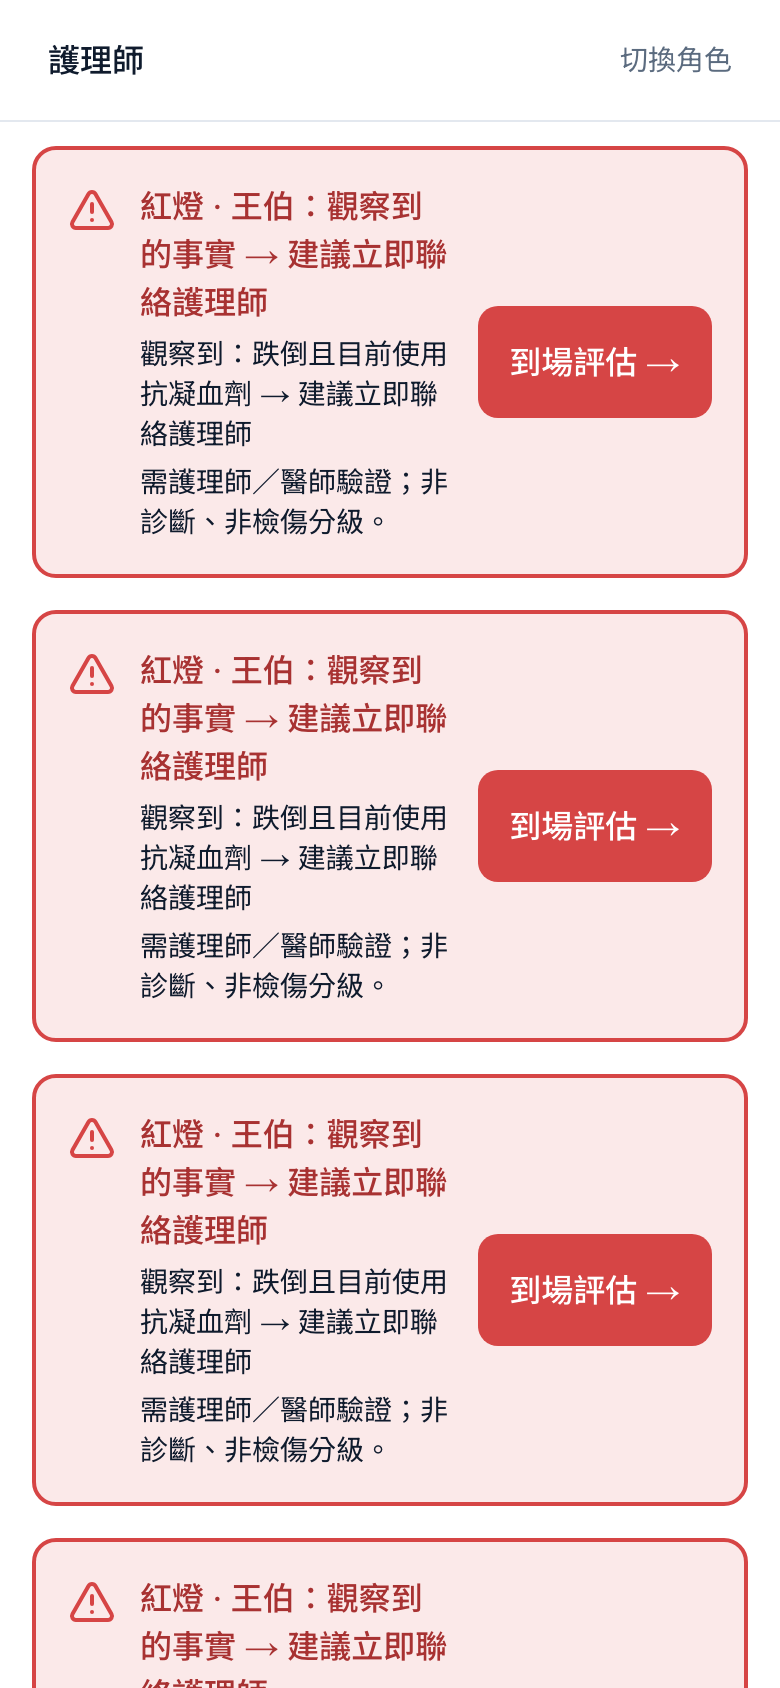
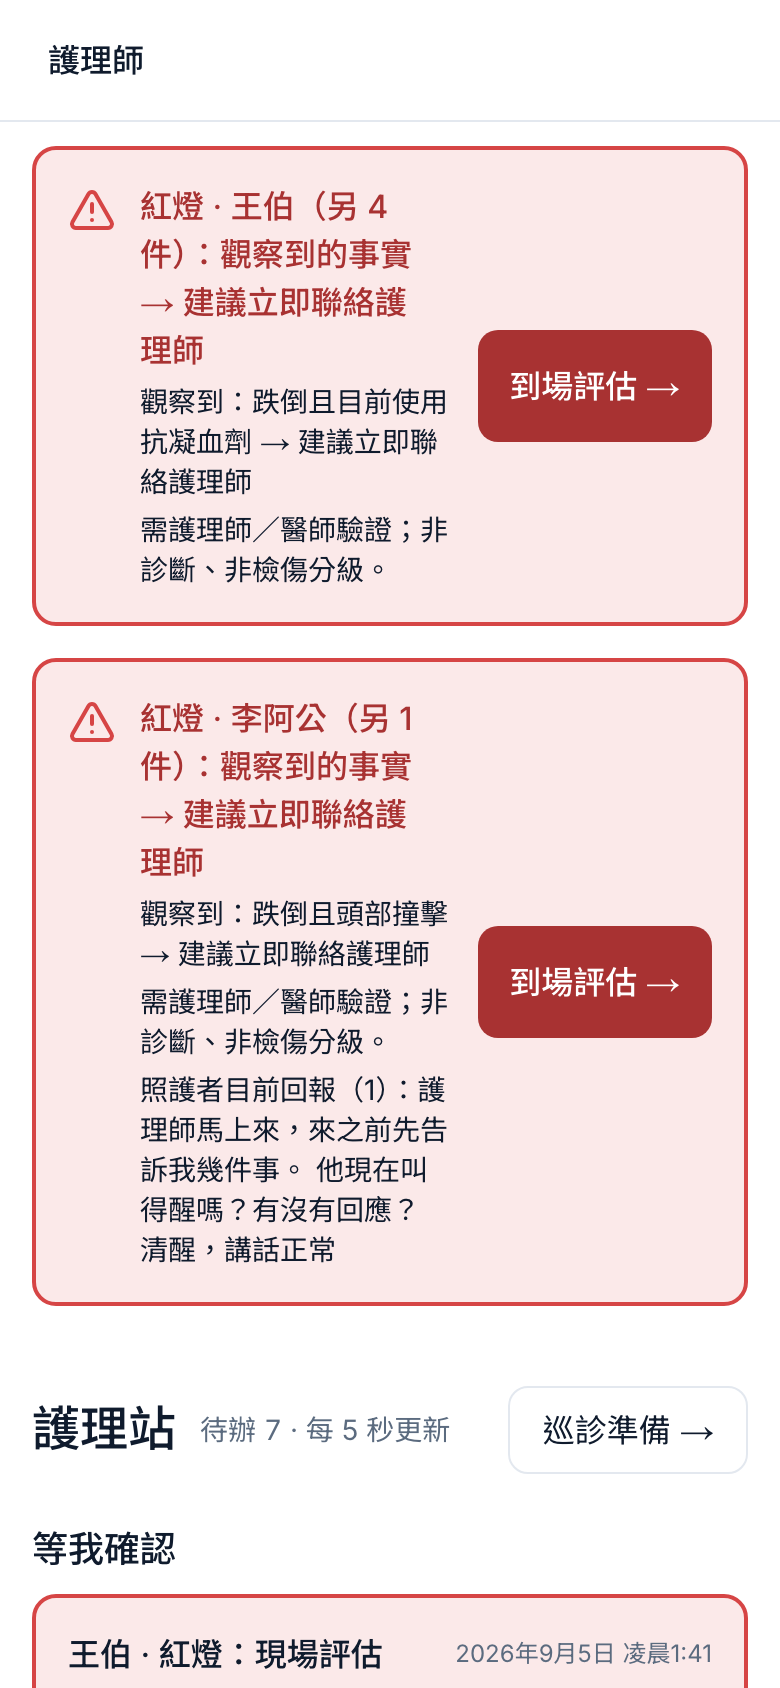
fix(api): serialise deep-agent runs with a lock instead of max_concurrency (custom stream deadlock); audit fixes on web
- LangGraph max_concurrency + stream_mode=custom deadlocked round/start/stream; run_task now holds _DEEP_AGENT_LOCK
- update_caregiver no longer makes a second planner call (talk graph plans)
- web: contrast/tap-target/hydration fixes from the web-design-guidelines audit; nav = role + patient only
- docs: UI_AUDIT 2026-09-05, KNOWN_ISSUES #19–22, DECISIONS

diff --git a/apps/web/components/patient/timeline-tab.tsx b/apps/web/components/patient/timeline-tab.tsx
@@ -105,21 +105,21 @@ export function TimelineTab({ summary, role, onlyIds }: { summary: PatientSummar
       return true;
     });
   }, [summary, showConv, onlyIds, dim]);
-  const hash = typeof window === "undefined" ? "" : window.location.hash.replace(/^#/, "");
   useEffect(() => {
+    const hash = window.location.hash.replace(/^#/, "");
     if (hash) document.getElementById(hash)?.scrollIntoView();
-  }, [hash]);
+  }, [rows.length]);
   const shown = rows.slice(0, PAGE * pages);
   return (
     <div className="space-y-3">
       <div className="flex flex-wrap items-center gap-2" role="group" aria-label="維度篩選">
-        <button type="button" onClick={() => setDim(null)} className={cn("min-h-9 rounded-full border px-3 text-sm", dim === null ? "border-primary bg-ai-fill" : "border-line")}>全部</button>
+        <button type="button" onClick={() => setDim(null)} aria-pressed={dim === null} className={cn("min-h-11 rounded-full border px-3 text-sm", dim === null ? "border-primary bg-ai-fill" : "border-line")}>全部</button>
         {DIMENSIONS.map((d) => (
-          <button key={d} type="button" onClick={() => setDim(d)} className={cn("min-h-9 rounded-full border px-3 text-sm", dim === d ? "border-primary bg-ai-fill" : "border-line", summary.changed_dimensions.includes(d) && "text-warn-ink")} aria-pressed={dim === d}>
+          <button key={d} type="button" onClick={() => setDim(d)} className={cn("min-h-11 rounded-full border px-3 text-sm", dim === d ? "border-primary bg-ai-fill" : "border-line", summary.changed_dimensions.includes(d) && "text-warn-ink")} aria-pressed={dim === d}>
             {DIMENSION_LABELS[d]["zh-TW"]}
           </button>
         ))}
-        <label className="ml-auto flex min-h-9 items-center gap-2 text-sm">
+        <label className="ml-auto flex min-h-11 items-center gap-2 text-sm">
           <input type="checkbox" checked={showConv} onChange={(e) => setShowConv(e.target.checked)} className="size-4 accent-[var(--primary)]" /> 含對話
         </label>
       </div>

diff --git a/apps/web/components/patient/talk-tab.tsx b/apps/web/components/patient/talk-tab.tsx
@@ -148,7 +148,7 @@ export function TalkTab({ summary, role, onChanged }: { summary: PatientSummary;
 
   return (
     <div className="mx-auto flex min-h-[calc(100dvh-9rem)] w-full max-w-[390px] flex-col">
-      <div className="flex-1 space-y-3 px-1 py-3" aria-live="polite">
+      <div className="flex-1 space-y-3 px-1 py-3">
         {messages.length === 0 && !live && <p className="rounded-2xl rounded-bl-md bg-surface px-4 py-3 text-base">{name}今天怎麼樣？講一句就好。</p>}
         {rows.map((r) =>
           "day" in r ? (
@@ -160,7 +160,7 @@ export function TalkTab({ summary, role, onChanged }: { summary: PatientSummary;
           ),
         )}
         {live && (
-          <div className="flex flex-col items-start gap-1">
+          <div className="flex flex-col items-start gap-1" aria-live="polite">
             <ActivityBar events={live.events} role={role} live defaultOpen={role !== "caregiver"} />
             {live.system.map((s, i) => (
               <p key={i} className="w-full text-center text-xs text-ink-2">{s}</p>
@@ -190,8 +190,9 @@ export function TalkTab({ summary, role, onChanged }: { summary: PatientSummary;
           onChange={(e) => setInput(e.target.value)}
           placeholder={placeholder}
           autoComplete="off"
-          disabled={busy}
-          className="min-h-14 min-w-0 flex-1 rounded-[10px] border border-line bg-bg px-4 text-base text-ink placeholder:text-ink-2/70 focus-visible:border-primary"
+          inputMode="text"
+          enterKeyHint="send"
+          className="min-h-14 min-w-0 flex-1 rounded-[10px] border border-line bg-bg px-4 text-base text-ink placeholder:text-ink-2 focus-visible:border-primary"
         />
         <Button type="submit" variant="primary" size="lg" className="size-14 shrink-0 p-0" disabled={busy} aria-label="送出">
           <SendHorizontal className="size-6" aria-hidden="true" />

diff --git a/apps/web/app/p/[id]/page.tsx b/apps/web/app/p/[id]/page.tsx
@@ -2,7 +2,7 @@
 
 import Link from "next/link";
 import { useParams, useRouter, useSearchParams } from "next/navigation";
-import { Suspense, useEffect, useMemo } from "react";
+import { Suspense, useEffect, useMemo, useSyncExternalStore } from "react";
 import { DocsTab } from "@/components/patient/docs-tab";
 import { TalkTab } from "@/components/patient/talk-tab";
 import { TimelineTab } from "@/components/patient/timeline-tab";
@@ -21,7 +21,9 @@ function PatientInner() {
   const { id } = useParams<{ id: string }>();
   const params = useSearchParams();
   const router = useRouter();
-  const role: Role = readRole() ?? "nurse";
+  // cookie 只在瀏覽器讀得到：伺服器先給 null，hydrate 後換成真正角色（避免 SSR/CSR 不一致）
+  const roleCookie = useSyncExternalStore(() => () => {}, () => readRole(), () => null);
+  const role: Role = roleCookie ?? "nurse";
   const tabParam = params.get("tab");
   const tab: Tab = isTab(tabParam) && ROLE_TABS[role].includes(tabParam) ? tabParam : ROLE_TABS[role][0];
   const onlyIds = useMemo(() => (params.get("ids") ?? "").split(",").filter(Boolean), [params]);
@@ -36,6 +38,7 @@ function PatientInner() {
     if (role === "nurse" && data && !isTab(tabParam) && data.pending.length === 0) router.replace(`/p/${id}?tab=timeline`);
   }, [role, data, tabParam, id, router]);
 
+  if (roleCookie === null) return <p className="text-ink-2">Loading…</p>;
   if (error && status === 404) return <p role="alert" className="text-danger-ink">找不到這位住民。</p>;
   if (error) return <p role="alert" className="text-danger-ink">無法連線到 API，請確認 make api 已啟動。<span className="block text-xs text-ink-2" translate="no">{error}</span></p>;
   if (!data) return <p className="text-ink-2">Loading…</p>;

diff --git a/apps/web/components/patient/activity-bar.tsx b/apps/web/components/patient/activity-bar.tsx
@@ -47,8 +47,8 @@ export function ActivityBar({ events, role, live = false, defaultOpen = false, c
         onClick={() => setOpen((o) => !o)}
         aria-expanded={open}
         className={cn(
-          "inline-flex min-h-8 items-center gap-1 rounded-full border border-dashed px-2 py-0.5 text-left",
-          hasRed ? "border-danger text-danger-ink" : "border-primary/40 text-ink-2 hover:text-ink",
+          "inline-flex min-h-11 items-center gap-1 rounded-full border border-dashed px-3 py-0.5 text-left",
+          hasRed ? "border-danger text-danger-ink" : "border-primary text-ink-2 hover:text-ink",
         )}
       >
         {live && running && <span className="size-2 animate-pulse rounded-full bg-primary" aria-hidden="true" />}
@@ -56,7 +56,7 @@ export function ActivityBar({ events, role, live = false, defaultOpen = false, c
         <ChevronDown className={cn("size-3 transition-transform", open && "rotate-180")} aria-hidden="true" />
       </button>
       {open && (
-        <ol className="mt-1 space-y-1 rounded-[10px] border border-dashed border-primary/40 bg-ai-fill/60 p-2" aria-live={live ? "polite" : undefined}>
+        <ol className="mt-1 space-y-1 rounded-[10px] border border-dashed border-primary bg-ai-fill p-2" aria-live={live ? "polite" : undefined}>
           {steps.map((e, i) => (
             <li key={i} className={cn("grid grid-cols-[auto_1fr_auto] gap-x-2", e.type === "red" && "text-danger-ink")}>
               <span className={cn("font-mono", e.type === "llm_call" && "text-primary", e.type === "tool_call" && "text-warn-ink")} translate="no">

diff --git a/apps/web/components/ui/field.tsx b/apps/web/components/ui/field.tsx
@@ -11,7 +11,7 @@ export function Input({ className, ...props }: React.ComponentProps<"input">) {
   return (
     <input
       className={cn(
-        "min-h-11 w-full rounded-[10px] border border-line bg-bg px-3 text-base text-ink placeholder:text-ink-2/70 focus-visible:border-primary",
+        "min-h-11 w-full rounded-[10px] border border-line bg-bg px-3 text-base text-ink placeholder:text-ink-2 focus-visible:border-primary",
         className,
       )}
       {...props}
@@ -23,7 +23,7 @@ export function Textarea({ className, ...props }: React.ComponentProps<"textarea
   return (
     <textarea
       className={cn(
-        "min-h-24 w-full rounded-[10px] border border-line bg-bg px-3 py-2 text-base text-ink placeholder:text-ink-2/70 focus-visible:border-primary",
+        "min-h-24 w-full rounded-[10px] border border-line bg-bg px-3 py-2 text-base text-ink placeholder:text-ink-2 focus-visible:border-primary",
         className,
       )}
       {...props}

diff --git a/apps/web/app/globals.css b/apps/web/app/globals.css
@@ -83,6 +83,7 @@ html {
   line-height: 1.5;
   /* 紅燈 banner 為 sticky top：焦點元素捲入時不被蓋住 */
   scroll-padding-top: 96px;
+  scroll-padding-bottom: 96px;
   -webkit-tap-highlight-color: transparent;
   text-size-adjust: 100%;
 }
@@ -124,7 +125,7 @@ button, a, [role="button"] { touch-action: manipulation; }
   html, body { background: #fff !important; color: #000 !important; font-size: 11pt; }
   .no-print { display: none !important; }
   /* 病人頁「文件」tab：只印 RoundPage 那一張 */
-  main > * > section:not(:has(.print-page)) { display: none !important; }
+  body:has(.print-page) main section:not(:has(.print-page)):not(.print-page section) { display: none !important; }
   .print-page { box-shadow: none !important; border: none !important; margin: 0 !important; max-width: none !important; padding: 0 !important; }
   a { color: inherit; text-decoration: none; }
   .ai-draft { border-style: dashed; background: #fff; }

diff --git a/apps/web/app/doctor/page.tsx b/apps/web/app/doctor/page.tsx
@@ -37,11 +37,13 @@ export default function DoctorHome() {
       <h1 className="text-2xl font-medium">今天巡診</h1>
       <p className="text-sm text-ink-2">每人一頁：這是誰、變了什麼、上次醫囑做了沒、請你確認什麼。</p>
       {error && <p role="alert" className="text-danger-ink">無法連線到 API，請確認 make api 已啟動。</p>}
+      {residents && residents.length === 0 && <p className="text-ink-2">還沒有住民資料，先跑 <code>make seed</code>。</p>}
       <ul>
         {(residents ?? []).map((r) => (
           <Row key={r.patient_id} r={r} />
         ))}
       </ul>
+      <p className="pt-4 text-sm"><Link href="/" className="inline-flex min-h-11 items-center text-ink-2 hover:text-ink">切換角色</Link></p>
     </div>
   );
 }

diff --git a/apps/web/components/red-banner-global.tsx b/apps/web/components/red-banner-global.tsx
@@ -29,7 +29,7 @@ export function RedBannerGlobal() {
             ...(i.caregiver_reports.length ? [`照護者目前回報（${i.turn_count}）：${i.caregiver_reports.slice(-2).map((r) => `${r.question} ${r.answer}`).join("；")}`] : []),
           ]}
           action={
-            <Link href={`/p/${i.patient_id}?tab=docs`} className="inline-flex min-h-14 items-center justify-center rounded-[10px] bg-danger px-4 text-base font-medium text-white hover:opacity-90">
+            <Link href={`/p/${i.patient_id}?tab=docs`} className="inline-flex min-h-14 items-center justify-center rounded-[10px] bg-danger-ink px-4 text-base font-medium text-white hover:underline focus-visible:ring-2 focus-visible:ring-danger">
               到場評估 →
             </Link>
           }

diff --git a/apps/web/app/caregiver/page.tsx b/apps/web/app/caregiver/page.tsx
@@ -39,11 +39,13 @@ export default function CaregiverHome() {
     <div className="mx-auto max-w-[390px] space-y-4">
       <h1 className="text-2xl font-medium">今天照顧誰？</h1>
       {error && <p role="alert" className="text-danger-ink">無法連線到 API，請確認 make api 已啟動。</p>}
+      {residents && residents.length === 0 && <p className="text-ink-2">還沒有住民資料，先跑 <code>make seed</code>。</p>}
       <ul className="grid gap-3">
         {(residents ?? []).map((r) => (
           <li key={r.patient_id}><ResidentCard r={r} /></li>
         ))}
       </ul>
+      <p className="pt-4 text-center text-sm"><Link href="/" className="inline-flex min-h-11 items-center text-ink-2 hover:text-ink">切換角色</Link></p>
     </div>
   );
 }

diff --git a/apps/web/components/patient/docs-tab.tsx b/apps/web/components/patient/docs-tab.tsx
@@ -11,7 +11,6 @@ import { Button } from "@/components/ui/button";
 import { Card } from "@/components/ui/card";
 import type { PatientSummary } from "@/lib/api";
 import { fmtDateTime } from "@/lib/format";
-import { typeLabel } from "@/lib/labels";
 import type { Role } from "@/lib/role";
 
 /**
@@ -84,7 +83,7 @@ export function DocsTab({ summary, role, onChanged }: { summary: PatientSummary;
       </section>
 
       {role === "nurse" && pending.length === 0 && (
-        <p className="no-print text-sm text-ink-2">目前沒有待確認的草稿。{pending.map((p) => typeLabel(p.interrupt_type)).join("")}</p>
+        <p className="no-print text-sm text-ink-2">目前沒有待確認的草稿。</p>
       )}
     </div>
   );

diff --git a/apps/web/components/round-page-view.tsx b/apps/web/components/round-page-view.tsx
@@ -62,7 +62,7 @@ export function RoundPageView({
                 (showLinks ? (
                   <Link
                     href={`/p/${page.patient_id}?tab=timeline&ids=${c.evidence_refs.join(",")}`}
-                    className="inline-flex min-h-6 items-center rounded-full border border-line px-2 text-xs text-primary hover:border-primary"
+                    className="inline-flex min-h-11 items-center rounded-full border border-line px-3 text-xs text-primary hover:border-primary"
                   >
                     {c.evidence_refs.length} 筆紀錄
                   </Link>

diff --git a/apps/web/components/nav.tsx b/apps/web/components/nav.tsx
@@ -19,13 +19,10 @@ export function Nav({ role }: { role: Role | null }) {
         </Link>
       )}
       {patient && (
-        <span className="min-w-0 truncate text-base text-ink-2" aria-current="page">
+        <span className="min-w-0 truncate text-base text-ink-2">
           · {patient}
         </span>
       )}
-      <Link href="/" className="ml-auto inline-flex min-h-11 items-center rounded-lg px-2 text-sm text-ink-2 hover:bg-surface hover:text-ink">
-        {role ? "切換角色" : "關於"}
-      </Link>
     </nav>
   );
 }
